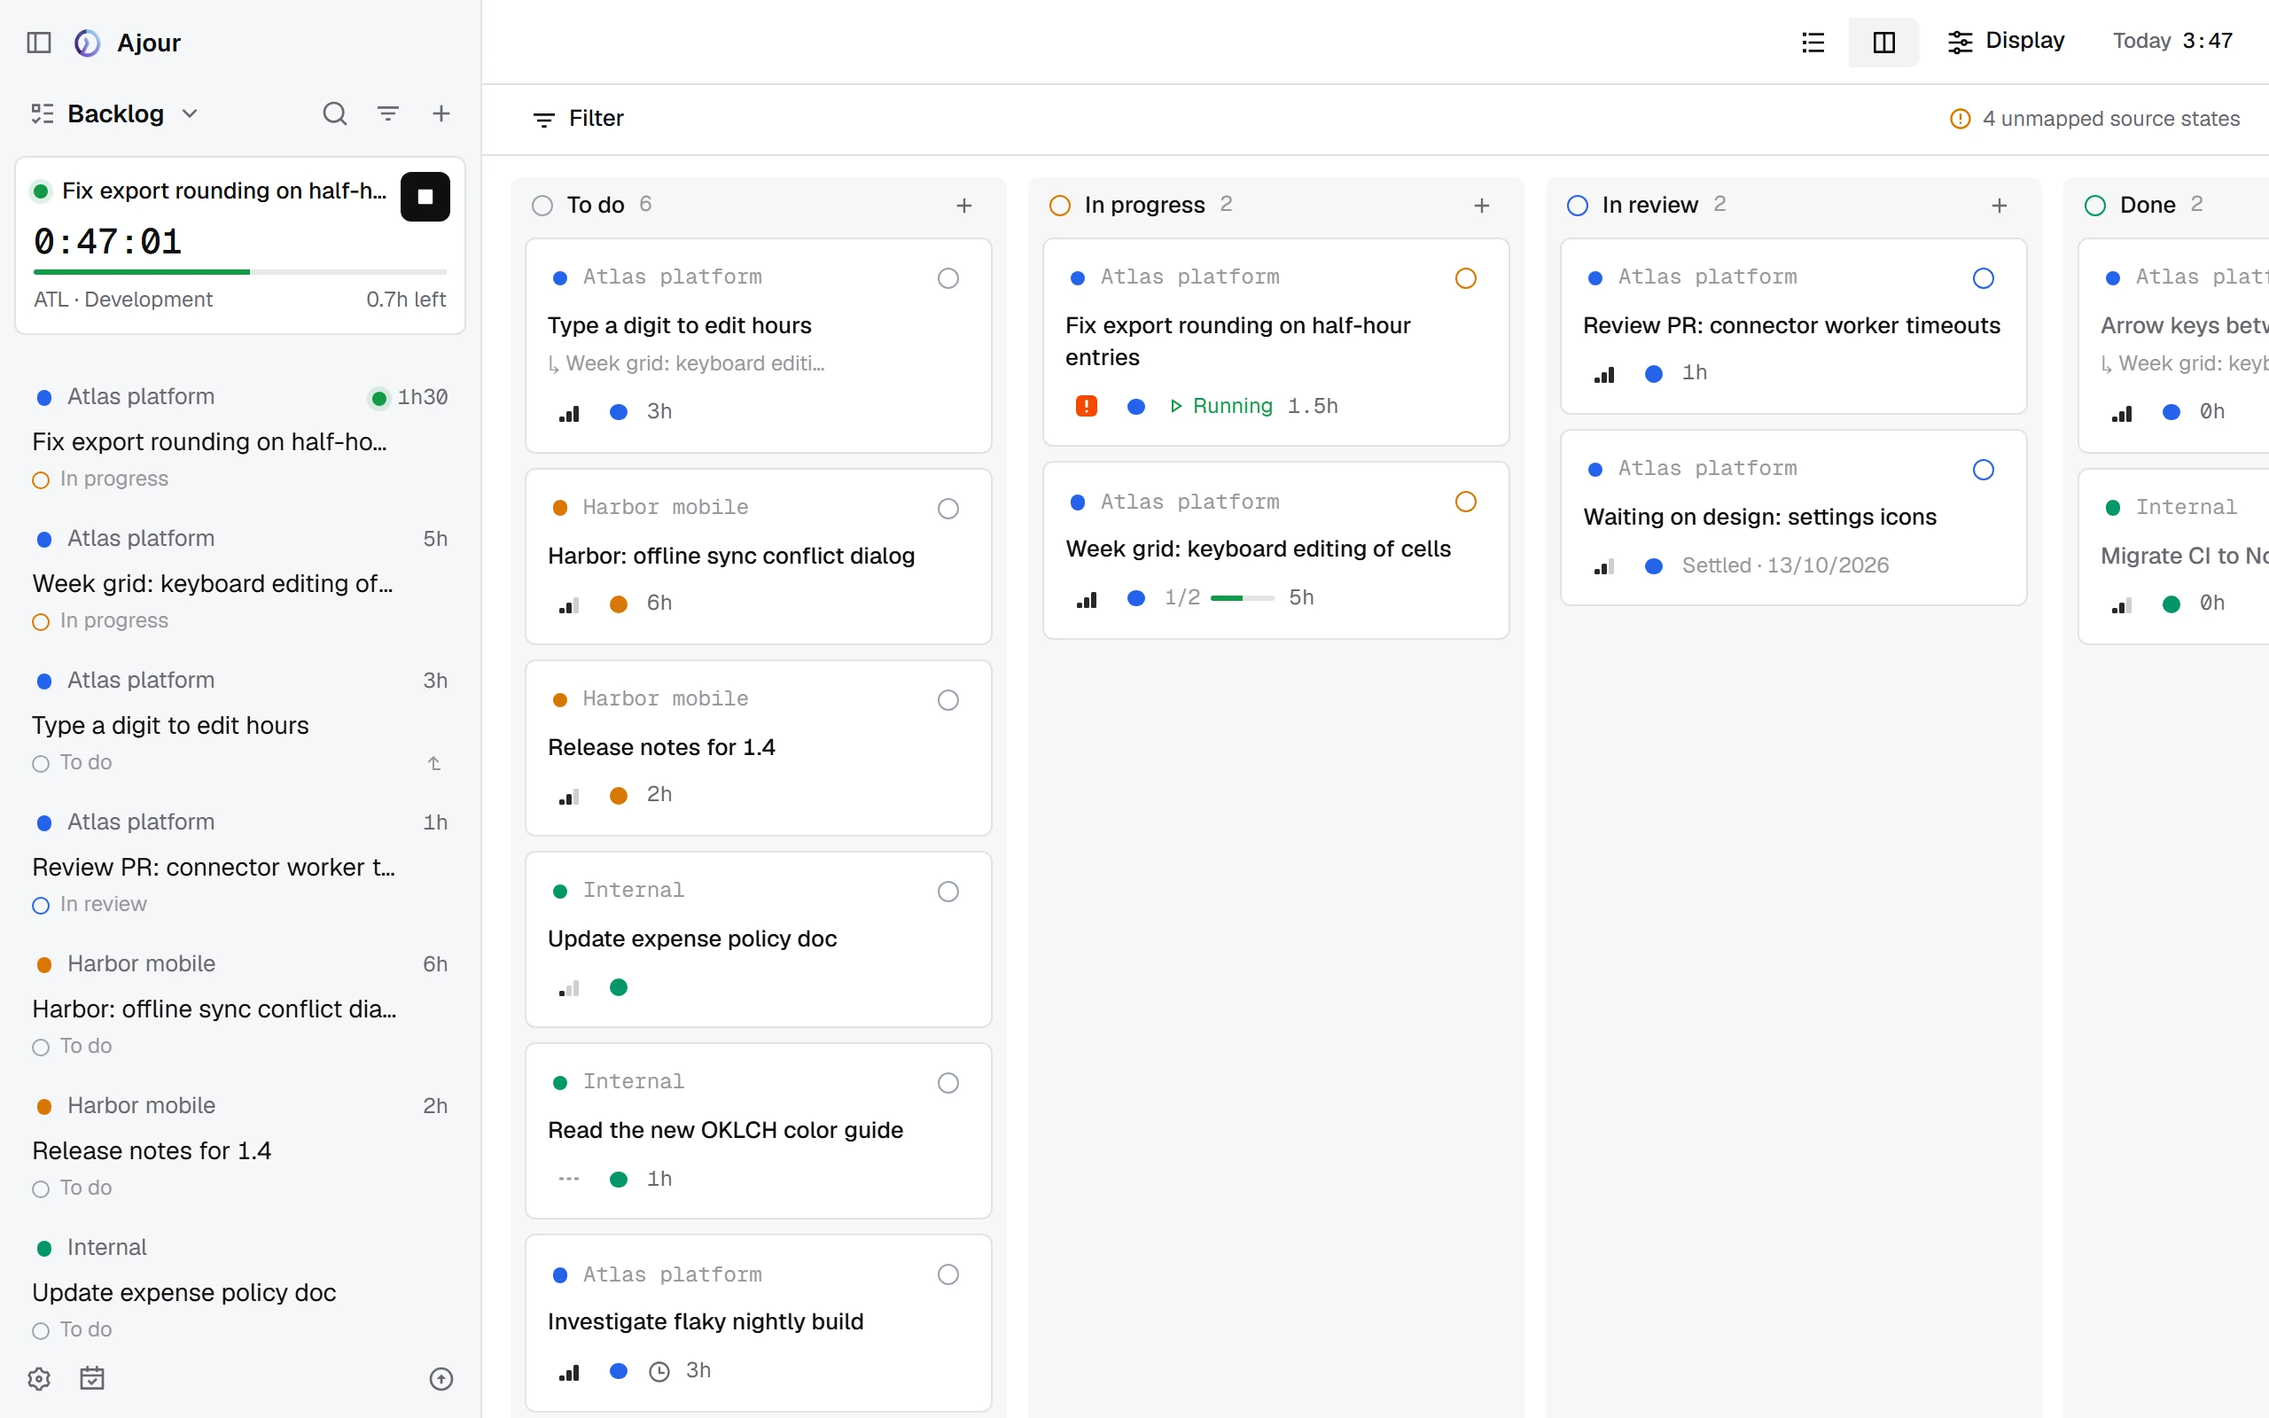
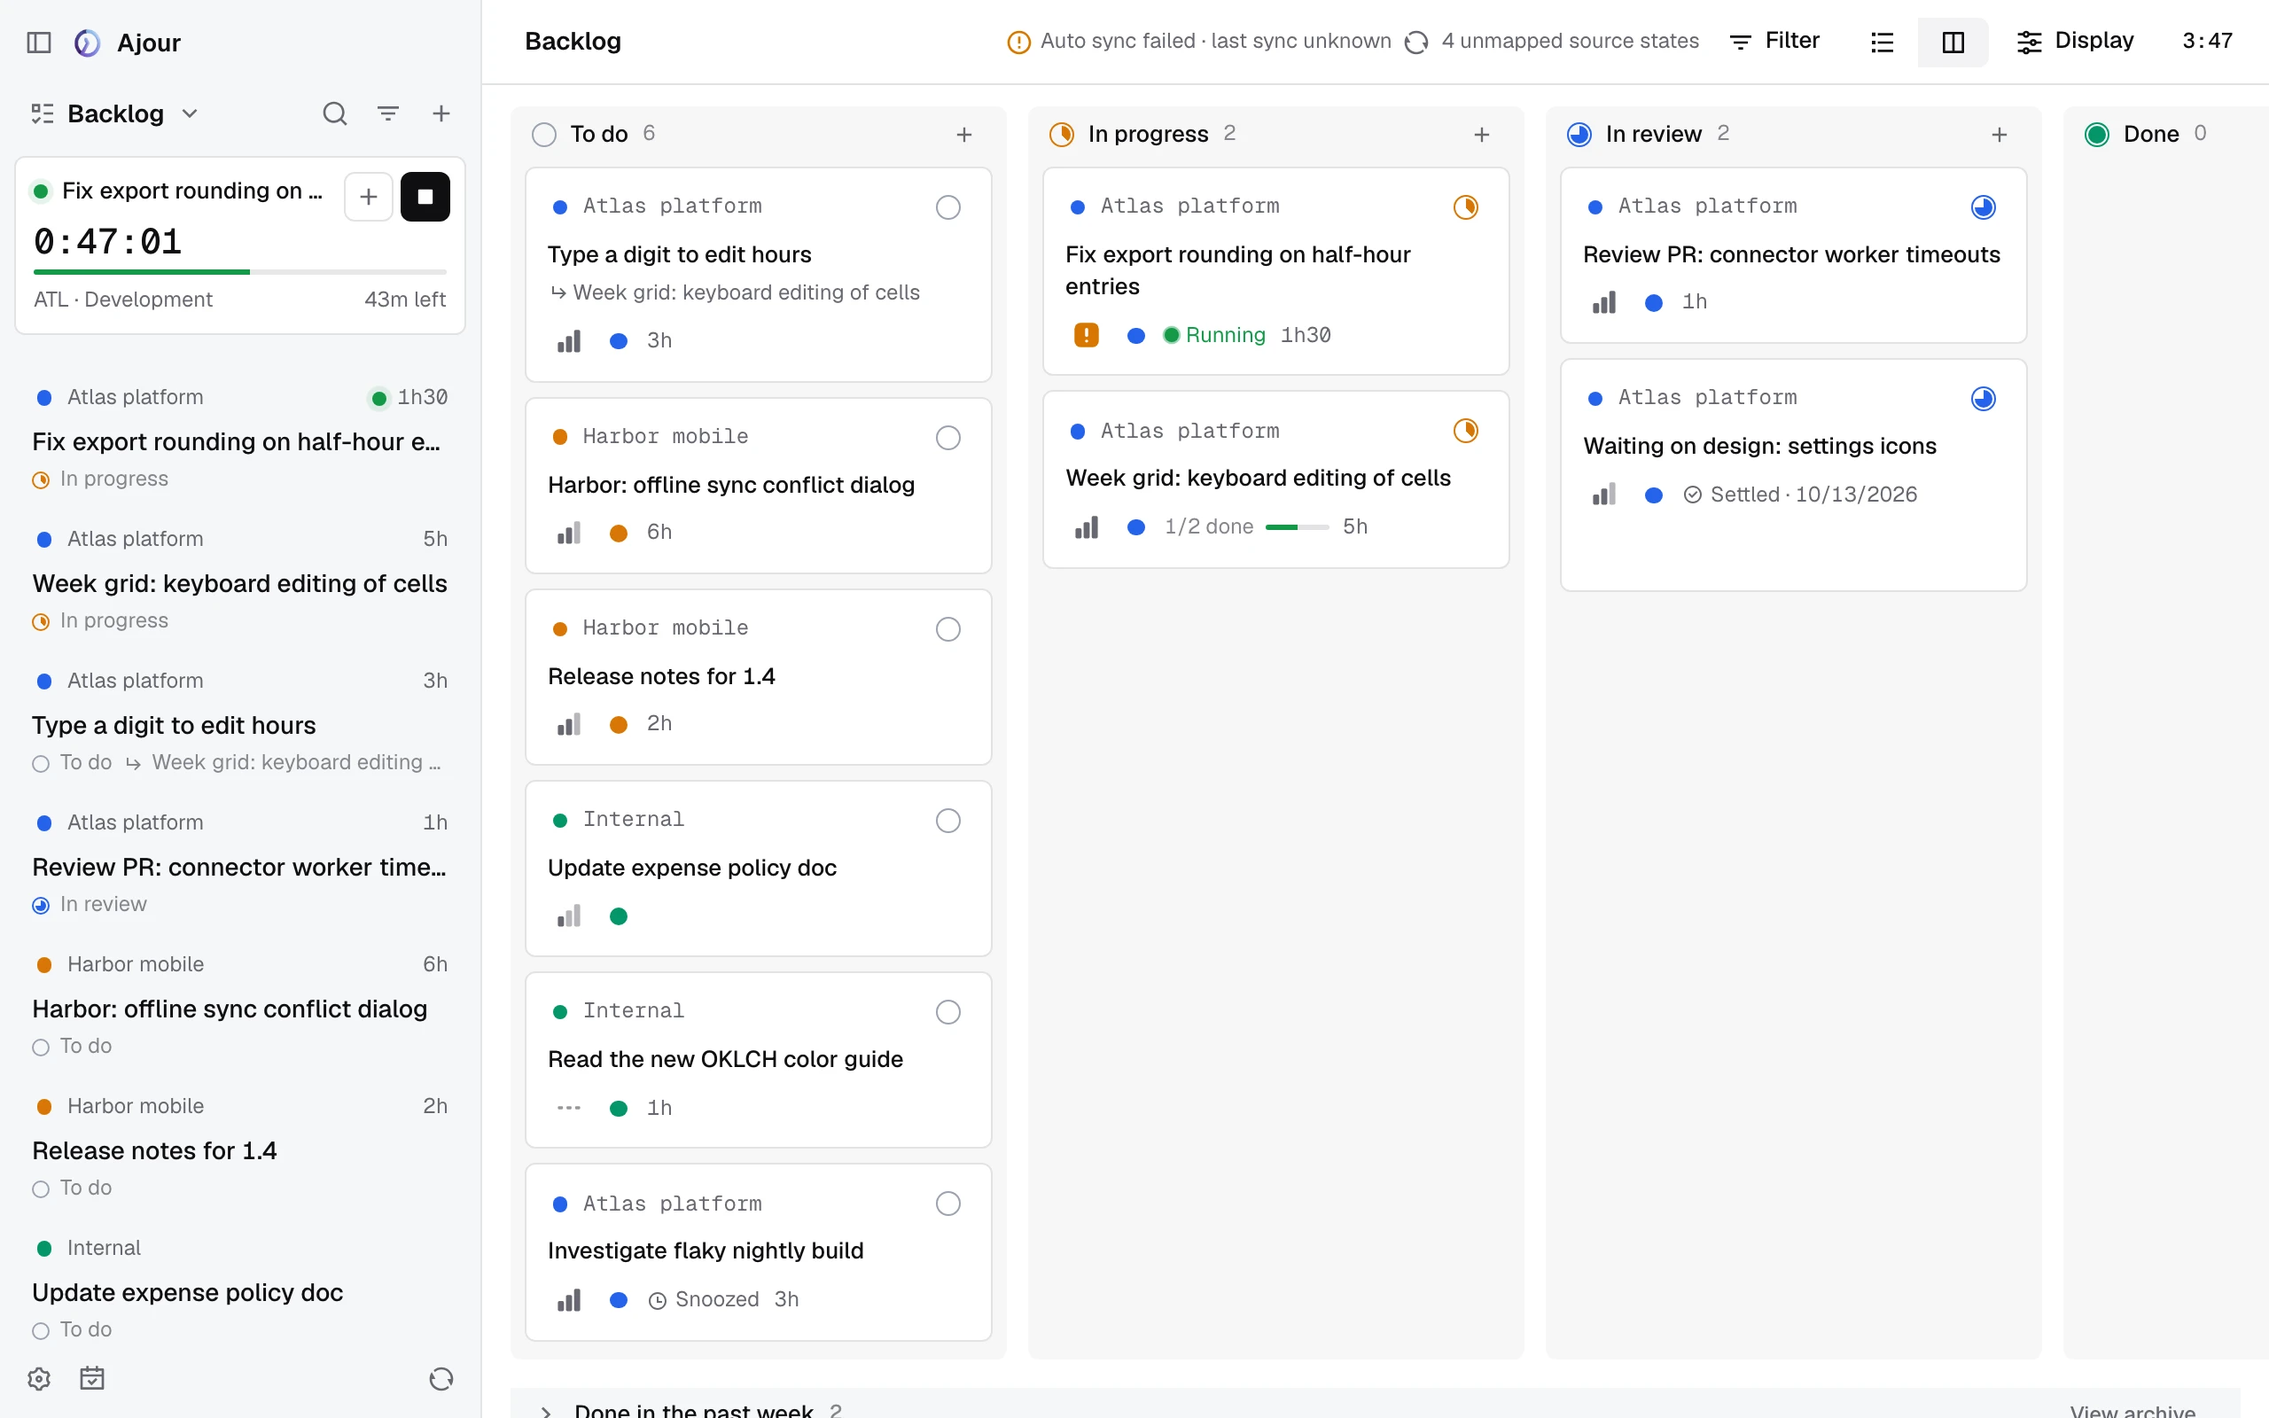
docs(backlog): the Done shelf and the archive, with new shots

diff --git a/docs/agents/ui-registry.md b/docs/agents/ui-registry.md
@@ -45,7 +45,7 @@ The redesign direction decided on 2026-10-14: Linear's density and structure, Ve
 - Every backlog item action runs through `runBacklogItemAction` in `features/backlog/backlog-item-actions.ts`; hosts only run Edit and Add subitem. Snooze… opens the one `SnoozePickerHost` from `features/backlog/snooze-picker.tsx`, mounted in the app shell. `useNow` from `lib/use-now.ts` re-renders views that hide snoozed items, so a snooze ends on its own. `getSettleBehavior` in `features/backlog/settle-dialog.tsx` decides what Settle does. Items whose backlog plugin can't settle are settled locally at once. Otherwise the source project's settle rule decides: Ask opens the one `SettleDialogHost`, also mounted in the app shell, and Apply settles with the rule's change. Shift+E (`item.settle-ask`) and Shift-click open the dialog prefilled with the rule, and action menus label Settle "Settle…" when it opens the dialog. Settings > Backlog edits the rules in `features/settings/settle-rules-section.tsx`, and `domain/backlog/settle-rules.ts` owns them. Settings > Calendar (`features/settings/settings-calendar-page.tsx`), listed under Work only while a calendar plugin is on, holds the suggestion filters, the refresh interval and the Remembered meetings list, whose Remove offers Undo. Its copy says remembered and hidden meetings, never rule. `features/backlog/backlog-source-writes.ts` sends a settle's pending write when its Undo toast closes (`offerUndo`'s `onWindowClosed`) and at launch.
 - The backlog item page, `features/backlog/backlog-item-page.tsx` at `/backlog/$itemId`, puts a "<project> / <title>" breadcrumb (the project's icon and name, linking to its page, or "Backlog" without a project) in the top bar, then a subtle "Back to Backlog" link with a back arrow above the 20px title with a plain secondary meta line (type · source link · freshness; the project is in the breadcrumb and the properties, council round 9), and the item's actions (the "Item actions" group) at the title's right, a state notice, the estimates as a `FigureRow` over a 3px progress bar, and the description (rendered as markdown) beside a column of `backlog-item-card`s on `--surface-tint` under a hairline border: the properties, then the Subitems and Time entries cards from `backlog-item-side-cards.tsx`. Each of those has a chevron title that opens or closes it and a + at its top right, a `TooltipButton` (Add subitem opens the card on the name field until it closes, without saving it open, and Escape gives focus back to the page; Add time entry opens the new entry popover on the +). They start closed on a summary: a 3px segment per subitem, filled when done (one bar past ten), and the hours left, or the entry count and the last day. The counts come from `getSubitemProgress` and `getSubitemHoursLeft` in `domain/backlog/backlog-view.ts`. `lib/backlog-item-cards.ts` saves which are open per device. Open, they list `backlog-item-row`s. The page edits in place (`backlog-item-inline-edit.tsx`): click the title or an estimate to type, and the description's subtle Edit swaps the markdown for `MarkdownEditor` (⌘/Ctrl+Enter or blur saves). Each saves on Enter or blur with the Undo toast; Escape cancels. The card's rows come from `BacklogItemProperties`, shared with the peek, plus Source, and Archive at the bottom of the card for synced items, as a `PropertyAction` from `components/property-list.tsx`: a borderless 28px row of a 16px icon beside a muted label that brightens on hover. The shared rows end with Missing from sync for synced items, a ghost menu of Archive automatically and Keep in backlog under a "Missing from sync" label, so the peek has it too.
 - The item page and the peek render a description without its frontmatter: `splitDescription` from `domain/backlog/description-frontmatter.ts` returns the body for `Markdown` and the fields as a tree. `BacklogItemProperties` shows the fields through `features/backlog/frontmatter-properties.tsx`: `FrontmatterRows` adds plain values as rows of its `PropertyList`, and `FrontmatterSections` follows with a closed section per list or nested key, each a `PropertySection` from `components/property-list.tsx`, the collapsible section the project page's plugin properties also use. `lib/frontmatter-sections.ts` keeps which sections are open per device, by key path. Before them, a synced item gets `BacklogItemSourceSection` from `features/backlog/backlog-item-source-section.tsx`, the same `PropertySection` titled by the plugin's display name from the plugins overview, with the number in a muted `Value` as its trailing value and the `BacklogRefresh` control in its Synced row; `lib/backlog-item-cards.ts` remembers it closed. The description text renders through `DescriptionText` from `features/backlog/description-links.tsx`, which listens for clicks on its web links; it and the field links ask through `useLinkQuestion`'s `AlertDialog`, one per card, while `asksBeforeOpeningDescriptionLinks` from `domain/local-state.ts` is true, then open with `openSourceUrl`. `TimelogButton` in `features/backlog/timelog-button.tsx` follows the Project picker in `BacklogItemProperties` while `getTimelogMismatch` from `domain/backlog/description-timelog.ts` finds a difference: an amber warning with an `AlertDialog` for a missing project or task, or a muted back arrow that applies at once. An archived item, read-only until Restore, shows none. Both call `localStore.applyTimelogWithUndo`. The store applies a changed timelog in `updateWorkItem`, `updateWorkItemWithUndo`, `addWorkItem` and `importSyncedWorkItems` through `applyDescriptionTimelogs`.
-- The Backlog page puts its actions (Search, Filter, layout toggle, Display) in the top bar without a repeated title or count. Search is the sidebar's expanding box, `components/expanding-search.tsx`, bound to `lib/backlog-search.ts` in `features/backlog/backlog-search.tsx`. A 40px filter row follows, with a Filter button that uses the sidebar's filter icon. It lists the fields, then the picked field's values as a checkable `Command` list that stays open. Each filtered field is one chip ("State To do, In progress"): the chip opens the same list and its × removes the field. Values of one field match any, fields must all match. The State filter's Archived value lists every archived item, including those that left the sync. then 32px sticky group headers, each with a + that adds an item to that group, and 36px list rows with fixed leading columns (priority, id, state, type) so titles align whether or not an item has an id; the project is a `Chip` and the estimate a mono value at the row's end. An ungrouped list or board has no header, so it ends with a "New backlog item" row instead. Board columns sit on a faint `--highlight-bg` tint and board cards are flat 6px `--surface` cards above it. The Display popover's choices are shadcn `Select`s. The pull request pages follow the same anatomy: title and Sync in the bar, `SectionHeading`s over rows, a subtle back link and `PropertyList` on the detail page. The Backlog page root is the focused object, so Enter edits, E settles and B snoozes. Edit opens the backlog item editor in a `SidePanel` over the Backlog page. On the item page there is no editor or "…" menu: Enter and `?action=edit` start renaming the title, and `?action=add-subitem` opens the subitem name field.
+- The Backlog page puts its actions (Search, Filter, layout toggle, Display) in the top bar without a repeated title or count. Search is the sidebar's expanding box, `components/expanding-search.tsx`, bound to `lib/backlog-search.ts` in `features/backlog/backlog-search.tsx`. A 40px filter row follows, with a Filter button that uses the sidebar's filter icon. It lists the fields, then the picked field's values as a checkable `Command` list that stays open. Each filtered field is one chip ("State To do, In progress"): the chip opens the same list and its × removes the field. Values of one field match any, fields must all match. The State filter's Archived value lists every archived item, including those that left the sync. then 32px sticky group headers, each with a + that adds an item to that group, and 36px list rows with fixed leading columns (priority, id, state, type) so titles align whether or not an item has an id; the project is a `Chip` and the estimate a mono value at the row's end. An ungrouped list or board has no header, so it ends with a "New backlog item" row instead. `BacklogDoneShelf` in `features/backlog/backlog-done-shelf.tsx` closes the page: a group header whose title toggles it, with View archive, over list rows; `splitDoneShelf` in `domain/backlog/backlog-view.ts` picks its items. Board columns sit on a faint `--highlight-bg` tint and board cards are flat 6px `--surface` cards above it. The Display popover's choices are shadcn `Select`s. The pull request pages follow the same anatomy: title and Sync in the bar, `SectionHeading`s over rows, a subtle back link and `PropertyList` on the detail page. The Backlog page root is the focused object, so Enter edits, E settles and B snoozes. Edit opens the backlog item editor in a `SidePanel` over the Backlog page. On the item page there is no editor or "…" menu: Enter and `?action=edit` start renaming the title, and `?action=add-subitem` opens the subitem name field.
 
 ## Surfaces
 

diff --git a/docs/agents/ux-spec.md b/docs/agents/ux-spec.md
@@ -632,7 +632,7 @@ The Display popover holds:
 - Grouping: workflow state (the default), priority, project, or none. None is list-only.
 - Swimlanes, on the board only: None (the default) or Project. One collapsible swimlane per project, with "No project" last. Hidden when grouping is Project.
 - Ordering: Custom (the default), Priority, Created, Remaining estimate or Title.
-- Done items: Past week (the default), All or None.
+- Done items: Past week (the default), All or None. It sets what the Done shelf holds; None hides the shelf.
 - Show settled items and Show subitems, both on by default.
 - Display properties: ID, priority, project, estimate and source state.
 
@@ -673,9 +673,16 @@ The layout, grouping, swimlanes, done window, toggles and properties are saved p
 - Included synced subitems are written through their own source project's mapping. Subitems already settled or archived are left alone.
 - Reopening the parent brings back the subitems that closed with it.
 
+### Done shelf
+
+- Archived items leave their group, in every grouping and layout, so the groups and columns hold only open work. A done state's column stays on the board as a drop target.
+- The archived items within the done window wait on the Done shelf at the end of the page, after every group and swimlane: "Done in the past week" with Past week, "Done" with All. It lists them as list rows, latest archived first, on the board too.
+- The shelf starts closed. Its header shows the count; its title opens and closes it, and the device remembers which. The shelf hides while it is empty.
+- Shelf rows select, peek and open like other rows, and carry the same actions. They don't drag or reorder.
+
 ### Archive
 
-- Archived items older than the done window live in Archive, from the header's "…" menu: the list layout filtered to archived items, including items archived because they dropped out of the sync. Restore puts an item back in its state's column.
+- Archive is the list under the State filter's Archived value: every archived item, including items older than the done window and items archived because they dropped out of the sync. "View archive" on the Done shelf's header opens it, replacing any State filter; removing the State chip goes back. The archive has no shelf: its items stay in their groups. Restore puts an item back in its state's column.
 
 ### Keyboard
 

diff --git a/apps/docs/backlog/index.md b/apps/docs/backlog/index.md
@@ -40,9 +40,19 @@ Click a row, or focus it and press <kbd>Space</kbd>, to open the peek: the item'
 
 <Shot name="backlog-peek" alt="The peek next to the backlog list" />
 
+## Done items
+
+Done items are archived. They leave their group, so the list and the board show only the work still open, whatever the grouping.
+
+Items archived in the past week wait on the **Done in the past week** shelf at the end of the page. The shelf starts closed and shows how many items it holds. Click its title to open it, and click again to close it. Ajour remembers on this device whether it is open. To change how far back the shelf goes, see **Done items** in [Display options](/backlog/display-options).
+
+<Shot name="backlog-done-shelf" alt="The open Done shelf at the end of the Backlog list" />
+
 ## Archive
 
-Done items are archived. To see them, press **Filter**, choose **State**, then **Archived**. Open an archived item and press **Restore** to put it back in your backlog.
+The archive holds every archived item, including older ones and items archived because they left a sync. Press **View archive** on the Done shelf, or press **Filter**, choose **State**, then **Archived**. Remove the **State** filter to go back to your open work.
+
+To put an item back in your backlog, open its **…** menu, or open the item, and press **Restore**.
 
 ## Unmapped source states
 

diff --git a/apps/docs/backlog/display-options.md b/apps/docs/backlog/display-options.md
@@ -14,7 +14,7 @@ Ajour saves display options on this device. Ordering is shared with the sidebar,
 | **Grouping**           | **Workflow state** (default), **Priority**, **Project**, or **None** in the list layout. |
 | **Swimlanes**          | On the board: **None** or **Project**.                                                   |
 | **Ordering**           | **Custom** (default), **Priority**, **Created**, **Remaining estimate** or **Title**.    |
-| **Done items**         | **Past week** (default), **All** or **None**.                                            |
+| **Done items**         | What the Done shelf holds: **Past week** (default), **All** or **None**, which hides it. |
 | **Show settled items** | Shows settled items, marked **Settled**. On by default.                                  |
 | **Show subitems**      | Shows subitems. On by default.                                                           |
 

diff --git a/docs/agents/library-docs.md b/docs/agents/library-docs.md
@@ -86,7 +86,7 @@ The backlog editor module is feature-local because its vocabulary and commands b
 
 ### Backlog views
 
-- Selection, filtering, grouping and ordering: `domain/backlog/backlog-view.ts`. Its `isBacklogReorderPeer` says which items a drag or Alt+Up and Alt+Down moves an item among under each ordering.
+- Selection, filtering, grouping and ordering: `domain/backlog/backlog-view.ts`. Its `splitDoneShelf` takes archived items out of the groups for the Done shelf. Its `isBacklogReorderPeer` says which items a drag or Alt+Up and Alt+Down moves an item among under each ordering.
 - Device-local preferences: `lib/backlog-view-settings.ts`. Ordering stays in local state.
 - Page orchestration: `features/backlog/backlog-page.tsx`.
 - Display controls and filters: `features/backlog/backlog-display.tsx`.
